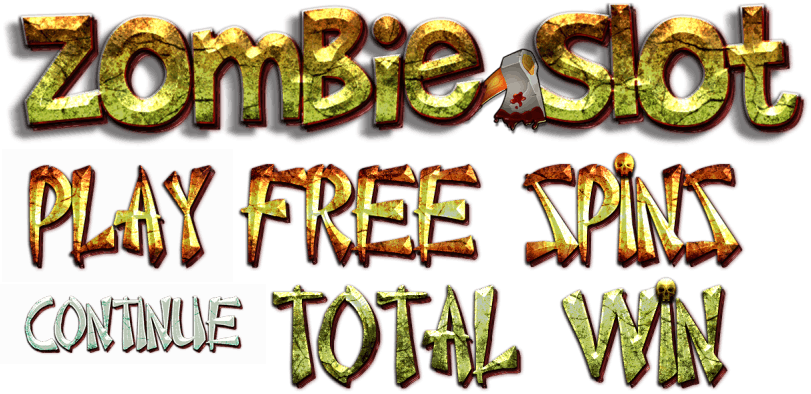
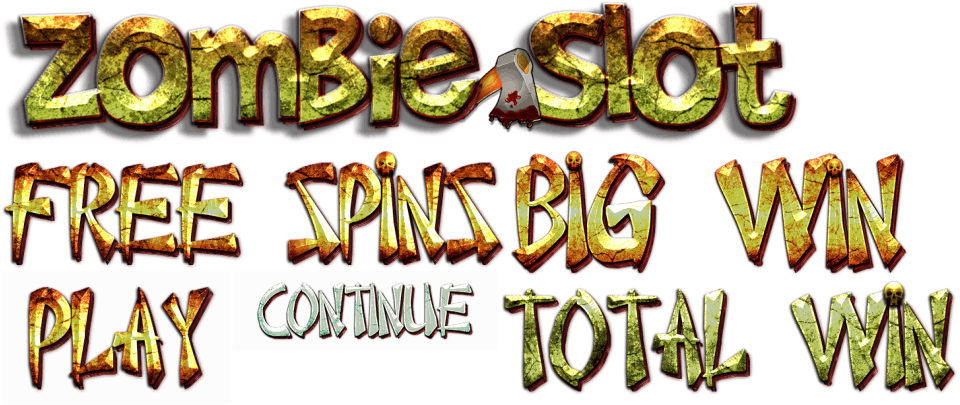
big win text added

diff --git a/markup/modules/Transition/TransitionView.js b/markup/modules/Transition/TransitionView.js
@@ -152,10 +152,17 @@ export let view = (() => {
             addCloud({});
         }
 
+        let winTextFrame;
+        if (model.data('fsMulti') === 7) {
+            winTextFrame = 'bigW.png';
+        } else {
+            winTextFrame = 'totalW.png';
+        }
+
         const winText = game.add.sprite(game.width / 2,
             -400,
             'text',
-            'totalW.png',
+            winTextFrame,
             transitionContainer);
         winText.anchor.set(0.5);
         model.el('winText', winText);
